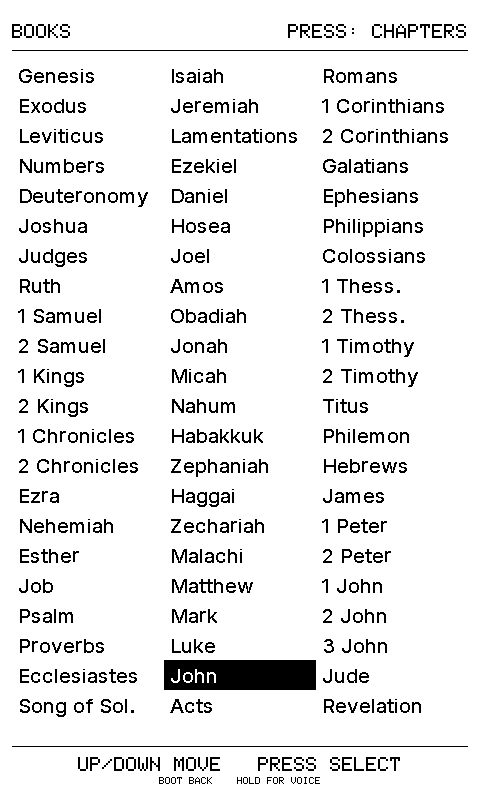
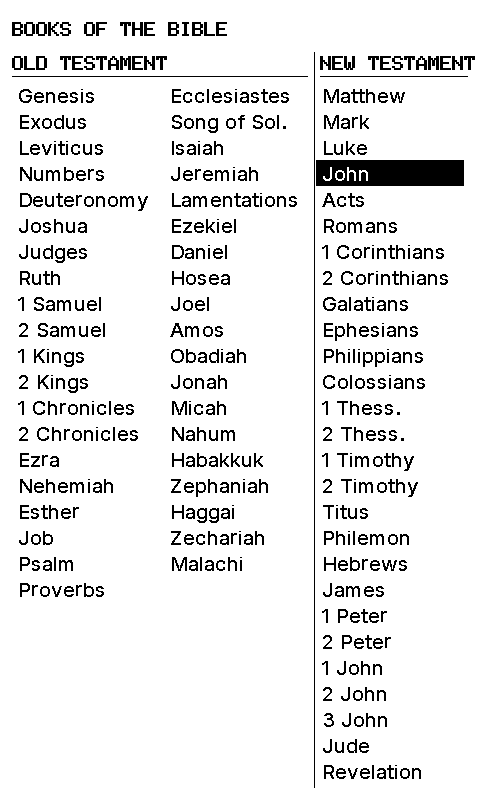
Bible home: devotional box carries the verse, BOOKS OF THE BIBLE split by testament

Changed region(s): [[0.0312, 0.0, 1.0, 1.0], [0.0312, 0.3125, 0.2812, 0.9062], [0.1562, 0.9375, 0.4688, 1.0]]

diff --git a/firmware/RetroSports/Render.h b/firmware/RetroSports/Render.h
@@ -420,9 +420,14 @@ class Renderer {
   }else if(u.page==Page::BibleHome){ // the Bible's own home: resume, today's verse, or browse
    center(60,"BIBLE",3);smallCenter(240,96,"BEREAN STANDARD BIBLE - PUBLIC DOMAIN");
    const BibleView& b=u.bible;std::string cont="CONTINUE "+bibleRefLabel({b.book,b.chapter,0});if(b.pages.size()>1)cont+="  "+std::to_string(std::min(b.page,(int)b.pages.size()-1)+1)+"/"+std::to_string(b.pages.size());
-   row(140,cont,u.selected==0);row(200,"VERSE OF THE DAY",u.selected==1);row(260,"TODAY'S DEVOTIONAL",u.selected==2);row(320,"BOOKS",u.selected==3);
-   if(u.votd.valid()){text(12,400,bibleRefLabel(u.votd),2);int y=428;for(const auto& line:launcherVerseLines(u)){read(12,y+1,line);y+=READ_LINE;}}
-   small(12,690,"HOLD THE ROCKER: \"GO TO PSALM 23\" OR \"READ JOHN 3:16\"");
+   row(140,cont,u.selected==0);
+   { // Today's devotional, with its verse inside the box (the verse of the day is the devotional's opening)
+    const bool sel=u.selected==1;const int ink=sel?1:0;const auto lines=u.votd.valid()?wrapWidth(u.votdText,readWidth,436,7):std::vector<std::string>{};const int h=70+int(std::max<size_t>(1,lines.size()))*READ_LINE; // wrapped for the box's inner width
+    c.fillRect(12,210,456,h,sel?0:1);c.drawRect(12,210,456,h,0);if(sel)text(22,228,">",2,1);text(sel?46:22,228,"TODAY'S DEVOTIONAL",2,ink);
+    if(u.votd.valid()){bold(22,254,bibleRefLabel(u.votd),2,ink);int y=280;for(const auto& line:lines){read(22,y,line,ink,436);y+=READ_LINE;}}
+    else read(22,280,"The Bible files are missing",ink);
+    row(210+h+16,"BOOKS OF THE BIBLE",u.selected==2);
+   }
   }else if(u.page==Page::Bible){ // the reader: chapter title and page counter, then flowing verses
    const BibleView& b=u.bible;const int pages=std::max(1,(int)b.pages.size()),page=std::min(b.page,pages-1);
    text(12,24,bibleRefLabel({b.book,b.chapter,0}),2,0,28);std::string pg=std::to_string(page+1)+"/"+std::to_string(pages);text(468-int(pg.size())*12,24,pg,2);c.drawFastHLine(12,50,456,0);
@@ -436,11 +441,12 @@ class Renderer {
       read(x+marker,y+1,s.text,hl?1:0,468-x-marker);x+=w;}
      y+=READ_LINE;}
    }
-  }else if(u.page==Page::BibleBooks){ // 66 books in three columns
-   text(12,24,"BOOKS",2);text(468-15*12,24,"PRESS: CHAPTERS",2);c.drawFastHLine(12,50,456,0);
-   for(int i=0;i<BIBLE_BOOKS;i++){const int x=12+(i/22)*152,y=60+(i%22)*30;const bool sel=u.bible.pick==i;
-    std::string name=bibleBooks[i].name;if(readWidth(name)>142){size_t t=name.find("Thessalonians");if(t!=std::string::npos)name=name.substr(0,t)+"Thess.";else if(name=="Song of Solomon")name="Song of Sol.";}
-    if(sel)c.fillRect(x,y,152,30,0);read(x+6,y+4,name,sel?1:0,142);}
+  }else if(u.page==Page::BibleBooks){ // Old Testament in two columns, New Testament in the third, 26 px rows
+   bold(12,22,"BOOKS OF THE BIBLE",2);
+   bold(12,56,"OLD TESTAMENT",2);bold(320,56,"NEW TESTAMENT",2);c.drawFastHLine(12,76,296,0);c.drawFastHLine(320,76,148,0);c.drawFastVLine(314,52,736,0);
+   for(int i=0;i<BIBLE_BOOKS;i++){const int col=i<20?0:i<39?1:2,rowi=i<20?i:i<39?i-20:i-39,x=12+col*152,y=82+rowi*26;const bool sel=u.bible.pick==i;
+    std::string name=bibleBooks[i].name;if(readWidth(name)>138){size_t t=name.find("Thessalonians");if(t!=std::string::npos)name=name.substr(0,t)+"Thess.";else if(name=="Song of Solomon")name="Song of Sol.";}
+    if(sel)c.fillRect(x,y,col==2?148:148,26,0);read(x+6,y+2,name,sel?1:0,138);}
   }else if(u.page==Page::BibleChapters){ // chapter grid for the picked book
    const BibleBook& bk=bibleBooks[std::max(1,std::min(BIBLE_BOOKS,u.bible.pickBook))-1];std::string t=bk.name;for(auto& ch:t)ch=toupper((unsigned char)ch);
    text(12,24,t,2,0,20);text(468-8*12,24,"CHAPTERS",2);c.drawFastHLine(12,50,456,0);
@@ -469,7 +475,7 @@ class Renderer {
    }
   }
   // The scoreboard uses the full height; other pages keep the control hints.
-  if(u.page!=Page::Games&&u.page!=Page::Detail&&u.page!=Page::Home&&u.page!=Page::Standings&&u.page!=Page::Bible&&u.page!=Page::Launcher&&u.page!=Page::Weather&&u.page!=Page::Voice&&u.page!=Page::Devotional){c.drawFastHLine(12,746,456,0);center(757,"UP/DOWN MOVE   PRESS SELECT",2);center(777,"BOOT BACK    HOLD FOR VOICE",1);}
+  if(u.page!=Page::Games&&u.page!=Page::Detail&&u.page!=Page::Home&&u.page!=Page::Standings&&u.page!=Page::Bible&&u.page!=Page::Launcher&&u.page!=Page::Weather&&u.page!=Page::Voice&&u.page!=Page::Devotional&&u.page!=Page::BibleBooks&&u.page!=Page::BibleHome){c.drawFastHLine(12,746,456,0);center(757,"UP/DOWN MOVE   PRESS SELECT",2);center(777,"BOOT BACK    HOLD FOR VOICE",1);}
  }
 };
 }

diff --git a/firmware/RetroSports/App.cpp b/firmware/RetroSports/App.cpp
@@ -875,7 +875,7 @@ static void keyAction(const Key& k){
    dirty=true;return;
   }
   else {int count=1;switch(ui.page){case Page::Home:count=HOME_ALL_ROW+(int)ui.recent.size();break;case Page::Games:{count=visibleGames(ui).size()+1;if(!ui.filter.empty()){int d=-1,c=-1;if(ui.standings.league==ui.league)teamGroups(ui.standings,ui.filter,d,c);count+=(d>=0||c>=0)?(d>=0?1:0)+(c>=0?1:0):1;}}break;
-   case Page::Standings:count=ui.standingsAlt>=0?2:1;break;case Page::BibleHome:count=4;break;case Page::Devotional:count=3;break;case Page::Update:count=1;break;case Page::Detail:count=3;break;case Page::Favorites:count=std::max(1,(int)ui.favorites.size());break;case Page::Settings:count=8;break;default:break;}ui.selected=(ui.selected+step+count)%count;
+   case Page::Standings:count=ui.standingsAlt>=0?2:1;break;case Page::BibleHome:count=3;break;case Page::Devotional:count=3;break;case Page::Update:count=1;break;case Page::Detail:count=3;break;case Page::Favorites:count=std::max(1,(int)ui.favorites.size());break;case Page::Settings:count=8;break;default:break;}ui.selected=(ui.selected+step+count)%count;
    if(ui.page==Page::Home&&ui.selected<HOME_TABS&&ui.selected!=ui.tab){ui.tab=ui.selected;buildRecent();} // landing on a tab switches the list (the gear does not)
    if(ui.page==Page::Games&&!ui.filter.empty()&&ui.selected==0)ui.selected=step>0?std::min(1,count-1):count-1; // team pages skip the phantom header slot
   }
@@ -923,7 +923,7 @@ static void keyAction(const Key& k){
   else if(ui.selected==LAUNCH_GEAR){ui.page=Page::Settings;ui.selected=0;}
   else{ui.tab=ui.selected-LAUNCH_TAB0;ui.listPage=0;goHome();if(ui.tab==0){if(!ui.recent.empty())ui.selected=HOME_ALL_ROW;}else ui.selected=HOME_NEXT;} // straight into the list
   break;
- case Page::BibleHome:if(ui.selected==0)openBible(BibleRef{});else if(ui.selected==1)openBible(ui.votd);else if(ui.selected==2){ui.page=Page::Devotional;ui.selected=0;if(devotionalStale())nextDevotional=0;warmVoice();}else{ui.bible.pick=ui.bible.book-1;ui.page=Page::BibleBooks;ui.selected=0;}break;
+ case Page::BibleHome:if(ui.selected==0)openBible(BibleRef{});else if(ui.selected==1){ui.page=Page::Devotional;ui.selected=0;if(devotionalStale())nextDevotional=0;warmVoice();}else{ui.bible.pick=ui.bible.book-1;ui.page=Page::BibleBooks;ui.selected=0;}break;
  case Page::Devotional:
   if(ui.selected==0&&speakState){stopSpeaking();} // reading: a press stops it
   else if(ui.selected==0){if(ui.devotional.valid&&!voiceKey.isEmpty()&&!audio::playing()){static VoiceJob job;memset(&job,0,sizeof(job));snprintf(job.say,sizeof(job.say),"%s",devotionalSpeech(ui.devotional).c_str());snprintf(job.key,sizeof(job.key),"%s",voiceKey.c_str());snprintf(job.voice,sizeof(job.voice),"%s",ttsVoice.c_str());if(xQueueSend(voiceQueue,&job,0)==pdTRUE)Serial.println("DEVOTIONAL reading aloud");}}

diff --git a/tests/render_preview.cpp b/tests/render_preview.cpp
@@ -33,6 +33,6 @@ int main(){
   r.sleepVerse(b);c.fillRect(0,0,480,52,0);c.setTextColor(1);c.setTextSize(2);c.setCursor(240-27*6,5);c.print("PRESS ANY BUTTON FOR LATEST");c.setCursor(240-31*6,28);c.print("ASLEEP - 1:42 PM - BATTERY 100%");save(c,"sleep-verse-demo");}
  {UI v=u;v.page=Page::Voice;v.voice=VoiceState::Answer;v.voiceHeard="who won the super bowl in nineteen eighty five";v.voiceAnswer="The Chicago Bears beat the New England Patriots 46-10 in Super Bowl XX, played in January 1986 for the 1985 season.";r.render(v);save(c,"voice-answer-demo");}
  {UI l=u;l.page=Page::Detail;l.selected=0;l.detail=GameDetail{};l.online=true;r.render(l);save(c,"detail-loading-demo");}
- {UI d=u;d.page=Page::Devotional;std::ifstream df("tests/fixtures/devotional.json");std::string fx((std::istreambuf_iterator<char>(df)),std::istreambuf_iterator<char>());JsonDocument wrap;wrap["choices"][0]["message"]["content"]=fx;parseDevotional(wrap,{19,119,9},"How can a young man keep his way pure? By guarding it according to Your word.",272,d.devotional);r.render(d);save(c,"devotional-demo");d.page=Page::BibleHome;d.selected=2;d.votd={19,119,9};d.votdText=d.devotional.verse;r.render(d);save(c,"bible-home-demo");}
+ {UI d=u;d.page=Page::Devotional;std::ifstream df("tests/fixtures/devotional.json");std::string fx((std::istreambuf_iterator<char>(df)),std::istreambuf_iterator<char>());JsonDocument wrap;wrap["choices"][0]["message"]["content"]=fx;parseDevotional(wrap,{19,119,9},"How can a young man keep his way pure? By guarding it according to Your word.",272,d.devotional);r.render(d);save(c,"devotional-demo");d.page=Page::BibleHome;d.selected=1;d.votd={19,119,9};d.votdText=d.devotional.verse;r.render(d);save(c,"bible-home-demo");}
  u.page=Page::Date;r.render(u);save(c,"date-demo");u.page=Page::Settings;r.render(u);save(c,"settings-demo");u.page=Page::Favorites;r.render(u);save(c,"favorites-empty-demo");u.favorites={{0,"10","New York Yankees"},{3,"333","Alabama Crimson Tide"}};r.render(u);save(c,"favorites-demo");u.page=Page::Games;u.snapshot.games.clear();r.render(u);save(c,"empty-demo");u.page=Page::Voice;r.render(u);save(c,"voice-demo");u.page=Page::Wifi;u.ap=true;u.apName="PixelLeague-734C";u.apPass="play12345678";u.notice="Setup stays open for 10 minutes.";r.render(u);save(c,"setup-demo");
 }

diff --git a/README.md b/README.md
@@ -44,7 +44,7 @@ A strip across the top of the launcher shows the weather: a 56 px glyph (sun, mo
 
 ## Bible and verse of the day
 
-The whole **Berean Standard Bible** (BSB, dedicated to the public domain by its publishers) lives on the board: 66 books, 1,189 chapters, 3.7 MB of plain text on the LittleFS data partition (7.9 MB), so it reads offline. The Bible home (from the launcher) offers `CONTINUE <book chapter> page/pages`, `VERSE OF THE DAY`, and `BOOKS`, with the day's verse printed underneath. The reader lays a chapter out in **Inter Medium at a 20 px em** (capitals about 14 px, the height of the scoreboard's pixel font) on 26 px lines, 27 lines a page, with verse numbers inline; rocker down/up turns pages and rolls straight into the next or previous chapter (and book), press opens the book list (three columns) and then a chapter grid, BOOT goes back. The reading position is saved to NVS on every page turn and restored after sleep or power loss. The verse of the day is picked from a table of 300+ well-known verses by the day of the year, so it needs no network and every device agrees; it changes at midnight (or at the next refresh wake while asleep). The idle and nightly sleep screens show the verse large and centered under the banner instead of a stale scoreboard.
+The whole **Berean Standard Bible** (BSB, dedicated to the public domain by its publishers) lives on the board: 66 books, 1,189 chapters, 3.7 MB of plain text on the LittleFS data partition (7.9 MB), so it reads offline. The Bible home offers `CONTINUE <book chapter> page/pages`, a `TODAY'S DEVOTIONAL` box with the day's verse printed inside it (the verse of the day is the devotional's opening), and `BOOKS OF THE BIBLE`, where the Old Testament fills two columns and the New Testament the third, divided by a rule. The reader lays a chapter out in **Inter Medium at a 20 px em** (capitals about 14 px, the height of the scoreboard's pixel font) on 26 px lines, 27 lines a page, with verse numbers inline; rocker down/up turns pages and rolls straight into the next or previous chapter (and book), press opens the book list (three columns) and then a chapter grid, BOOT goes back. The reading position is saved to NVS on every page turn and restored after sleep or power loss. The verse of the day is picked from a table of 300+ well-known verses by the day of the year, so it needs no network and every device agrees; it changes at midnight (or at the next refresh wake while asleep). The idle and nightly sleep screens show the verse large and centered under the banner instead of a stale scoreboard.
 
 Voice reaches it too: "open the Bible", "go to Psalm 23", "John 3:16", "read me Romans 8" (spoken through the same TTS path, from the chapter file rather than the model), "verse of the day". A verse asked for by number lands on its page highlighted.
 

diff --git a/VALIDATION.md b/VALIDATION.md
@@ -151,6 +151,10 @@ The user heard pauses and clipped words. Cause: speech was written to I2S straig
 
 The user asked for a daily devotional on the verse of the day, one screen, simple and accessible for ages 7–13, verse on top with truth and application, broken up with headers and bullets, with a read-aloud option. A sample was generated first with the brief that `Devotional.h` carries (Psalm 119:9: "Keep Your Way Pure", one truth, three bullets, a doable action, a one-line prayer) and the user approved the shape; it is `tests/fixtures/devotional.json` and the preview `devotional-demo`. The firmware writes the devotional on the network task with the voice key, parses the model's JSON with length caps, caches it in NVS keyed by day and verse, and refreshes it when the day or verse changes — on the 6:30 wake it is counted into that wake's pending fetches so the board stays up for it. The page lays the verse out in the reading font over a rule, then the title at pixel size 3 and the sections with bold headers and square bullets; press reads `devotionalSpeech` through the TTS path, and the voice action `open_devotional` (with `read`) does the same by voice. Host tests cover parsing the fixture, the NVS roundtrip, the spoken text and the voice reply.
 
+## Bible home, simplified — v1.5.1
+
+Since the verse of the day is the devotional's opening, the user merged the two rows: the Bible home is now CONTINUE, a TODAY'S DEVOTIONAL box that shows the reference and verse inside it, and BOOKS OF THE BIBLE. The book list is retitled and split Old Testament (two columns) / New Testament (one column of 27) with headers and a vertical rule, on 26 px rows so the New Testament column fits; both pages dropped the footer hints for the room. Previews `bible-home-demo`, `bible-books-demo`.
+
 ## Verse of the day follows the devotional — v1.5.1
 
 The user wanted the launcher verse to match the devotional's verse. The device already takes a file devotional's `ref` as the day's verse, but the draft script picked verses from the table with a leap-year calendar (2024), one day ahead of the device's non-leap day-of-year after February, so drafts quoted the next day's verse (10-02: Psalm 37:5 against the device's 1 Peter 3:15). The script now indexes by the current year's calendar; existing drafts keep their verses, and the override makes the launcher follow whichever verse the file names. That override was then found to be undone right after boot: the loop's first "new day" pass called `loadVerseOfDay`, which reset the verse to the table entry. The override now lives inside `loadVerseOfDay` itself (a file devotional for today names the verse; the table is the fallback), so every caller agrees.
